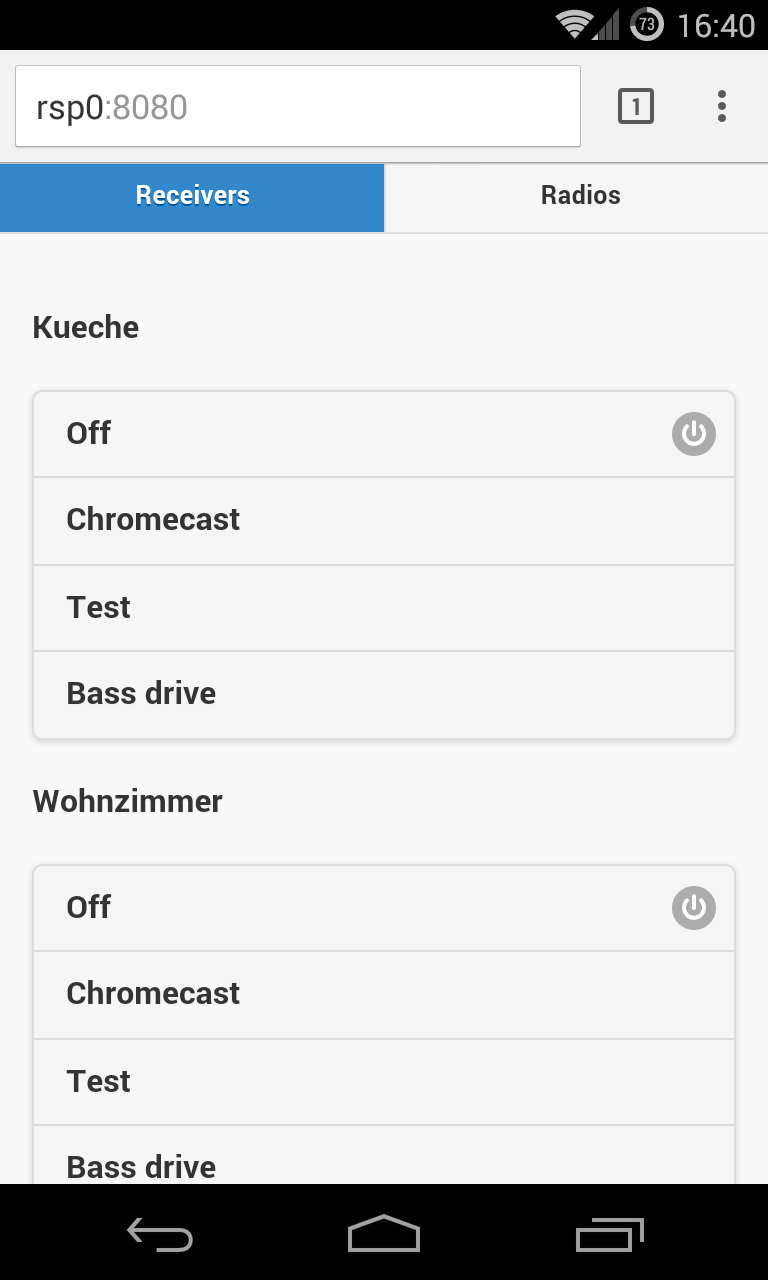
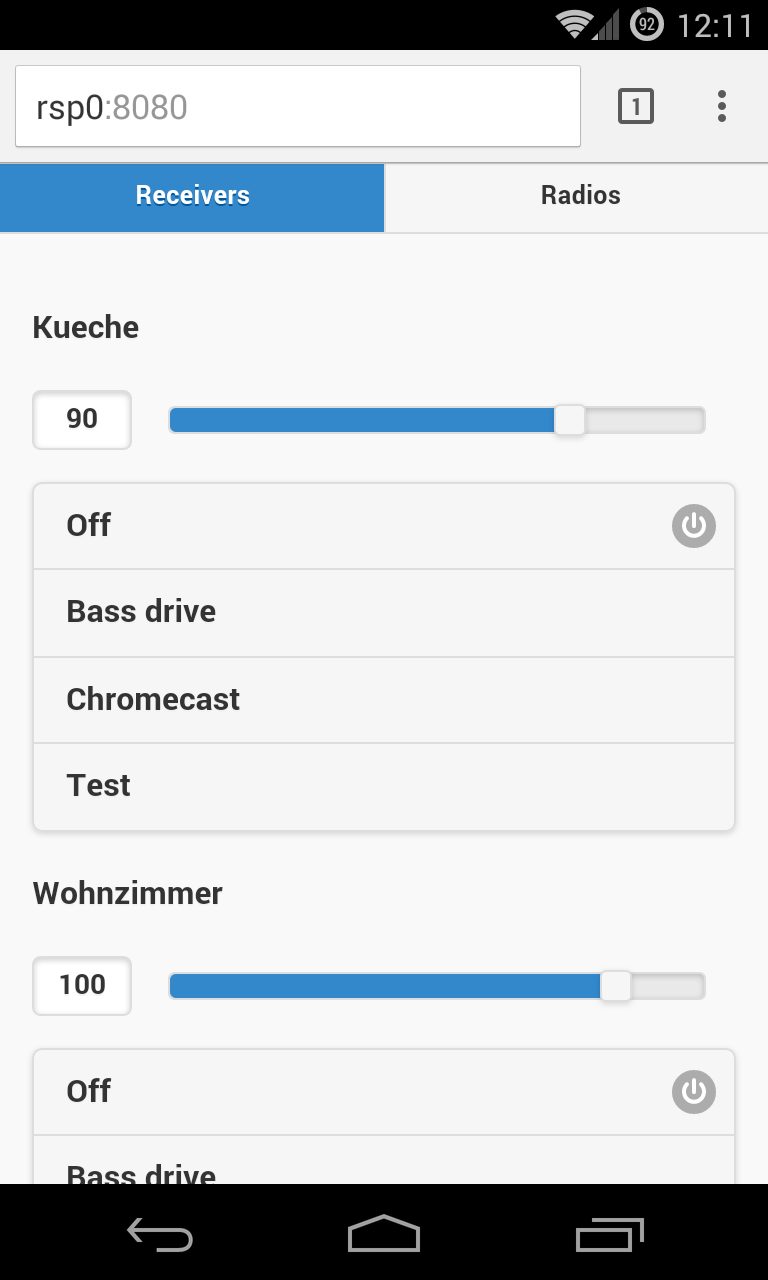
set volume on receivers; fixes #8

diff --git a/html/script.js b/html/script.js
@@ -86,23 +86,24 @@ function injectReceiver(r) {
     var activeRadio = getActiveRadio(activeServer);
     var activeRadioId = getRadioId(activeRadio);
     // inject 'off' server
-    servers += '<li data-icon="' + getIcon(offId == activeId, true) + '"><a class="api-call" href="/api/receiver/?receiver=' + id + '&server=off">Off</a></li>';
+    servers += '<li data-icon="' + getIcon(offId == activeId, true) + '"><a class="api-call" href="/api/receiver?id=' + id + '&server=off">Off</a></li>';
     // add servers
     if (config.Backends.Servers) {
         eachSorted(config.Backends.Servers, sortNames, function(k, e) {
             if (!e.Internal) {
-                servers += '<li data-icon="' + getIcon(k == activeId, false) + '"><a class="api-call" href="/api/receiver/?receiver=' + id + '&server=' + k + '">' + e.Name + '</a></li>';
+                servers += '<li data-icon="' + getIcon(k == activeId, false) + '"><a class="api-call" href="/api/receiver?id=' + id + '&server=' + k + '">' + e.Name + '</a></li>';
             }
         });
     }
     // add radios
     if (config.Backends.Radios) {
         eachSorted(config.Backends.Radios, sortNames, function(k, e) {
-            servers += '<li data-icon="' + getIcon(k == activeRadioId, false) + '"><a class="api-call" href="/api/receiver/?receiver=' + id + '&radio=' + k + '">' + e.Name + '</a></li>';
+            servers += '<li data-icon="' + getIcon(k == activeRadioId, false) + '"><a class="api-call" href="/api/receiver?id=' + id + '&radio=' + k + '">' + e.Name + '</a></li>';
         });
     }
     servers += '</ul>';
-    $('#receiver-list').append('<div id="' + id + '"><h4>' + r.Name + '</h4>' + servers + '</div>');
+    volume = '<input class="volume-slider api-base" rel="/api/receiver?id=' + id + '&volume=" type="range" name="volume" id="volume-' + id + '" value="' + r.Volume + '" min="0" max="120" data-highlight="true" data-mini="true">';
+    $('#receiver-list').append('<div id="' + id + '"><h4>' + r.Name + '</h4>' + volume + servers + '</div>');
 }
 
 // create list radios
@@ -143,8 +144,8 @@ function injectBackends() {
       $('#radio-list').append("no radio defined");
     }
 
-    // init list views to make them look beautiful
-    $('.receiver-list-ul').listview().listview('refresh');
+    // init dynamically added views to make them look beautiful
+    $('html').trigger('create');
     $('.radio-list-ul').listview().listview('refresh');
 
     // replace api-calls with ajax requests
@@ -154,6 +155,8 @@ function injectBackends() {
     $('.dialog-edit-radio').click(onEditRadioClick);
     $('.dialog-delete-radio').unbind('click', onDeleteRadioClick);
     $('.dialog-delete-radio').click(onDeleteRadioClick);
+    $('.volume-slider').unbind('change', onVolumeChange);
+    $('.volume-slider').change(onVolumeChange);
 }
 
 function onApiCallClick(e) {
@@ -184,6 +187,14 @@ function onAddRadioSubmit(e) {
 function onDeleteRadioSubmit(e) {
     e.preventDefault();
     deleteRadio();
+}
+
+function onVolumeChange(e) {
+    var id = '#' + e.target.id;
+    var api = $(id).attr('rel');
+    var v = $(id).val();
+    api += v;
+    $.get(api);
 }
 
 // callback to update config

diff --git a/go/rtp-config.go b/go/rtp-config.go
@@ -7,6 +7,7 @@ import (
 	"io/ioutil"
 	"net/http"
 	"os"
+	"strconv"
 	"strings"
 	"sync"
 	"time"
@@ -21,7 +22,7 @@ const (
 
 var (
 	config Config
-	managers = make(map[string]*Manager)
+	managers       = make(map[string]*Manager)
 	configCond *sync.Cond
 	saveConfigLock = sync.Mutex{}
 	staticDir *string
@@ -189,26 +190,6 @@ func serveApiRadio(w http.ResponseWriter, req *http.Request) *ServeError {
 	return nil
 }
 
-// GET /api/receiver?receiver=${receiver-id}&server=${server-id}
-func serveApiReceiverServer(w http.ResponseWriter, req *http.Request, receiver_id, server_id string) *ServeError {
-	log.Debug("/api/receiver receiver: %s, server: %s", receiver_id, server_id)
-
-	if !config.Backends.hasReceiver(receiver_id) {
-		return NewInternalError(fmt.Sprintf("receiver not found: %s", receiver_id))
-	}
-
-	if server_id != "off" {
-		if !config.Backends.hasServer(server_id) {
-			return NewInternalError(fmt.Sprintf("server not found: %s", server_id))
-		}
-	}
-
-	log.Debug("setting new server for %s: %s", receiver_id, server_id)
-	config.Receivers[receiver_id] = server_id
-	notifyNewConfig()
-	return nil
-}
-
 func findServerWithRadio(radio_id string) (string, bool) {
 	for k, r := range config.Servers {
 		if r == radio_id {
@@ -275,13 +256,9 @@ func stopServer(server_id string) {
 	delete(config.Backends.Servers, server_id)
 }
 
-// GET /api/receiver?receiver=${receiver-id}&radio=${radio-id}
+// GET /api/receiver?id=${receiver-id}&radio=${radio-id}
 func serveApiReceiverRadio(w http.ResponseWriter, req *http.Request, receiver_id, radio_id string) *ServeError {
 	log.Debug("/api/receiver receiver: %s, radio: %s", receiver_id, radio_id)
-
-	if !config.Backends.hasReceiver(receiver_id) {
-		return NewInternalError(fmt.Sprintf("receiver not found: %s", receiver_id))
-	}
 
 	if radio_id != "off" {
 		if !config.Backends.hasRadio(radio_id) {
@@ -295,17 +272,60 @@ func serveApiReceiverRadio(w http.ResponseWriter, req *http.Request, receiver_id
 	return nil
 }
 
-// GET /api/receiver?receiver=${receiver-id}&server=${server-id}
-// GET /api/receiver?receiver=${receiver-id}&radio=${radio-id}
+// GET /api/receiver?id=${receiver-id}&server=${server-id}
+func serveApiReceiverServer(w http.ResponseWriter, req *http.Request, receiver_id, server_id string) *ServeError {
+	log.Debug("/api/receiver receiver: %s, server: %s", receiver_id, server_id)
+
+	if server_id != "off" {
+		if !config.Backends.hasServer(server_id) {
+			return NewInternalError(fmt.Sprintf("server not found: %s", server_id))
+		}
+	}
+
+	log.Debug("setting new server for %s: %s", receiver_id, server_id)
+	config.Receivers[receiver_id] = server_id
+	notifyNewConfig()
+	return nil
+}
+
+// GET /api/receiver?id=${receiver-id}&volume=[1,100]
+func serveApiReceiverVolume(w http.ResponseWriter, req *http.Request, receiver_id, volume string) *ServeError {
+	log.Debug("/api/receiver receiver: %s, volume: %s", receiver_id, volume)
+
+	v, err := strconv.Atoi(volume)
+	if err != nil {
+		return NewInternalError(fmt.Sprintf("invalid volume '%s': %s", volume, err))
+	}
+
+	if v < 0 || v > 1000 {
+		return NewInternalError(fmt.Sprintf("invalid volume '%d'", v))
+	}
+
+	log.Debug("setting new volume for %s: %d", receiver_id, v)
+	config.Backends.Receivers[receiver_id].Volume = v
+	notifyNewConfig()
+	return nil
+}
+
+// GET /api/receiver?id=${receiver-id}&server=${server-id}
+// GET /api/receiver?id=${receiver-id}&radio=${radio-id}
+// GET /api/receiver?id=${receiver-id}&volume=[0,100]
 func serveApiReceiver(w http.ResponseWriter, req *http.Request) *ServeError {
-	receiver_id := req.URL.Query().Get("receiver")
+	receiver_id := req.URL.Query().Get("id")
 	server_id := req.URL.Query().Get("server")
 	radio_id := req.URL.Query().Get("radio")
+	volume := req.URL.Query().Get("volume")
 
-	if server_id != "" && radio_id == "" {
+	if !config.Backends.hasReceiver(receiver_id) {
+		return NewInternalError(fmt.Sprintf("receiver not found: %s", receiver_id))
+	}
+
+	if server_id != "" && radio_id == "" && volume == "" {
 		return serveApiReceiverServer(w, req, receiver_id, server_id)
-	} else if radio_id != "" && server_id == "" {
+	} else if radio_id != "" && server_id == "" && volume == "" {
 		return serveApiReceiverRadio(w, req, receiver_id, radio_id)
+	} else if volume != "" && radio_id == "" && server_id == "" {
+		return serveApiReceiverVolume(w, req, receiver_id, volume)
 	} else {
 		return NewInternalError("server or radio is mandatory")
 	}
@@ -335,7 +355,7 @@ func serve(w http.ResponseWriter, req *http.Request) {
 		err = serveApiRadio(w, req)
 	} else if req.URL.Path == "/api/config" {
 		err = serveJson(w, req, config)
-	} else if req.URL.Path == "/api/receiver/" {
+	} else if req.URL.Path == "/api/receiver" {
 		err = serveApiReceiver(w, req)
 	} else {
 		http.NotFound(w, req)

diff --git a/go/rtp-receiver.go b/go/rtp-receiver.go
@@ -138,12 +138,30 @@ func (m *Manager) checkServer(server *Server) bool {
 	return err == nil
 }
 
+func (m *Manager) setVolume() {
+	if m.Pipeline == nil {
+		return
+	}
+	volume := m.Pipeline.GetByName("volume")
+	if volume == nil {
+		log.Error("unable to find pipeline element 'volume'")
+		return
+	}
+	// rtp volume [0,100]
+	// gst volume [0,1]
+	v := float64(m.Receiver().Volume) / 100
+	log.Debug("set new volume: %d", v)
+	volume.SetProperty("volume", v)
+}
+
 func (m *Manager) buildPipeline(server *Server) {
 	src := makeElem("tcpclientsrc")
 	src.SetProperty("host", server.Host)
 	src.SetProperty("port", server.Port)
 	demux := makeElem("oggdemux")
 	dec := makeElem("opusdec")
+	volume := makeElem("volume")
+	volume.SetProperty("volume", 1.0)
 	sink := makeElem("alsasink")
 	sink.SetProperty("sync", false)
 
@@ -156,9 +174,12 @@ func (m *Manager) buildPipeline(server *Server) {
 	addElem(m.Pipeline, src)
 	addElem(m.Pipeline, demux)
 	addElem(m.Pipeline, dec)
+	addElem(m.Pipeline, volume)
 	addElem(m.Pipeline, sink)
 	linkElems(src, demux)
-	linkElems(dec, sink)
+	linkElems(dec, volume)
+	linkElems(volume, sink)
+	m.setVolume()
 }
 
 func (m *Manager) playPipeline(server *Server) {
@@ -176,6 +197,13 @@ func (m *Manager) playPipeline(server *Server) {
 		m.NewConfig(nil)
 		m.RetryCount = 0
 	}
+}
+
+func (m *Manager) updateReceiver(config *Config) {
+	// update m.Backend from config.Backends.Receivers
+	m.Backend = config.Backends.Receivers[m.Backend.Id()]
+	// update volume of playing pipeline
+	m.setVolume()
 }
 
 func (m *Manager) loop() {
@@ -200,7 +228,7 @@ func (m *Manager) loop() {
 		}
 		// watch state/config changes and restart pipeline
 		var newServer *Server
-		i := 0
+		first := true
 		for newServer == nil || (server != nil && server.Host == newServer.Host && server.Port == newServer.Port) {
 			log.Debug("wait for new config")
 			log.Debug("old server: %s", server)
@@ -210,15 +238,16 @@ func (m *Manager) loop() {
 				// state changed start all over
 				break
 			}
+			m.updateReceiver(config)
 			newServer = m.getServer(config)
 			// exit loop if server == off
 			if newServer == nil {
-				if i > 0 {
+				if !first {
 					time.Sleep(retryInterval)
 				}
 				break
 			}
-			i += 1
+			first = false
 		}
 		m.StopPipeline()
 	}

diff --git a/go/common-client.go b/go/common-client.go
@@ -36,8 +36,10 @@ func newManager() *Manager {
 }
 
 func NewReceiver() *Manager {
+	r := Receiver{}
+	r.Volume = 100
 	m := newManager()
-	m.Backend = &Receiver{}
+	m.Backend = &r
 	return m
 }
 

diff --git a/go/common.go b/go/common.go
@@ -31,6 +31,7 @@ type Receiver struct {
 	Name     string
 	Host     string
 	LastPing int64
+	Volume   int
 }
 
 type Config struct {
